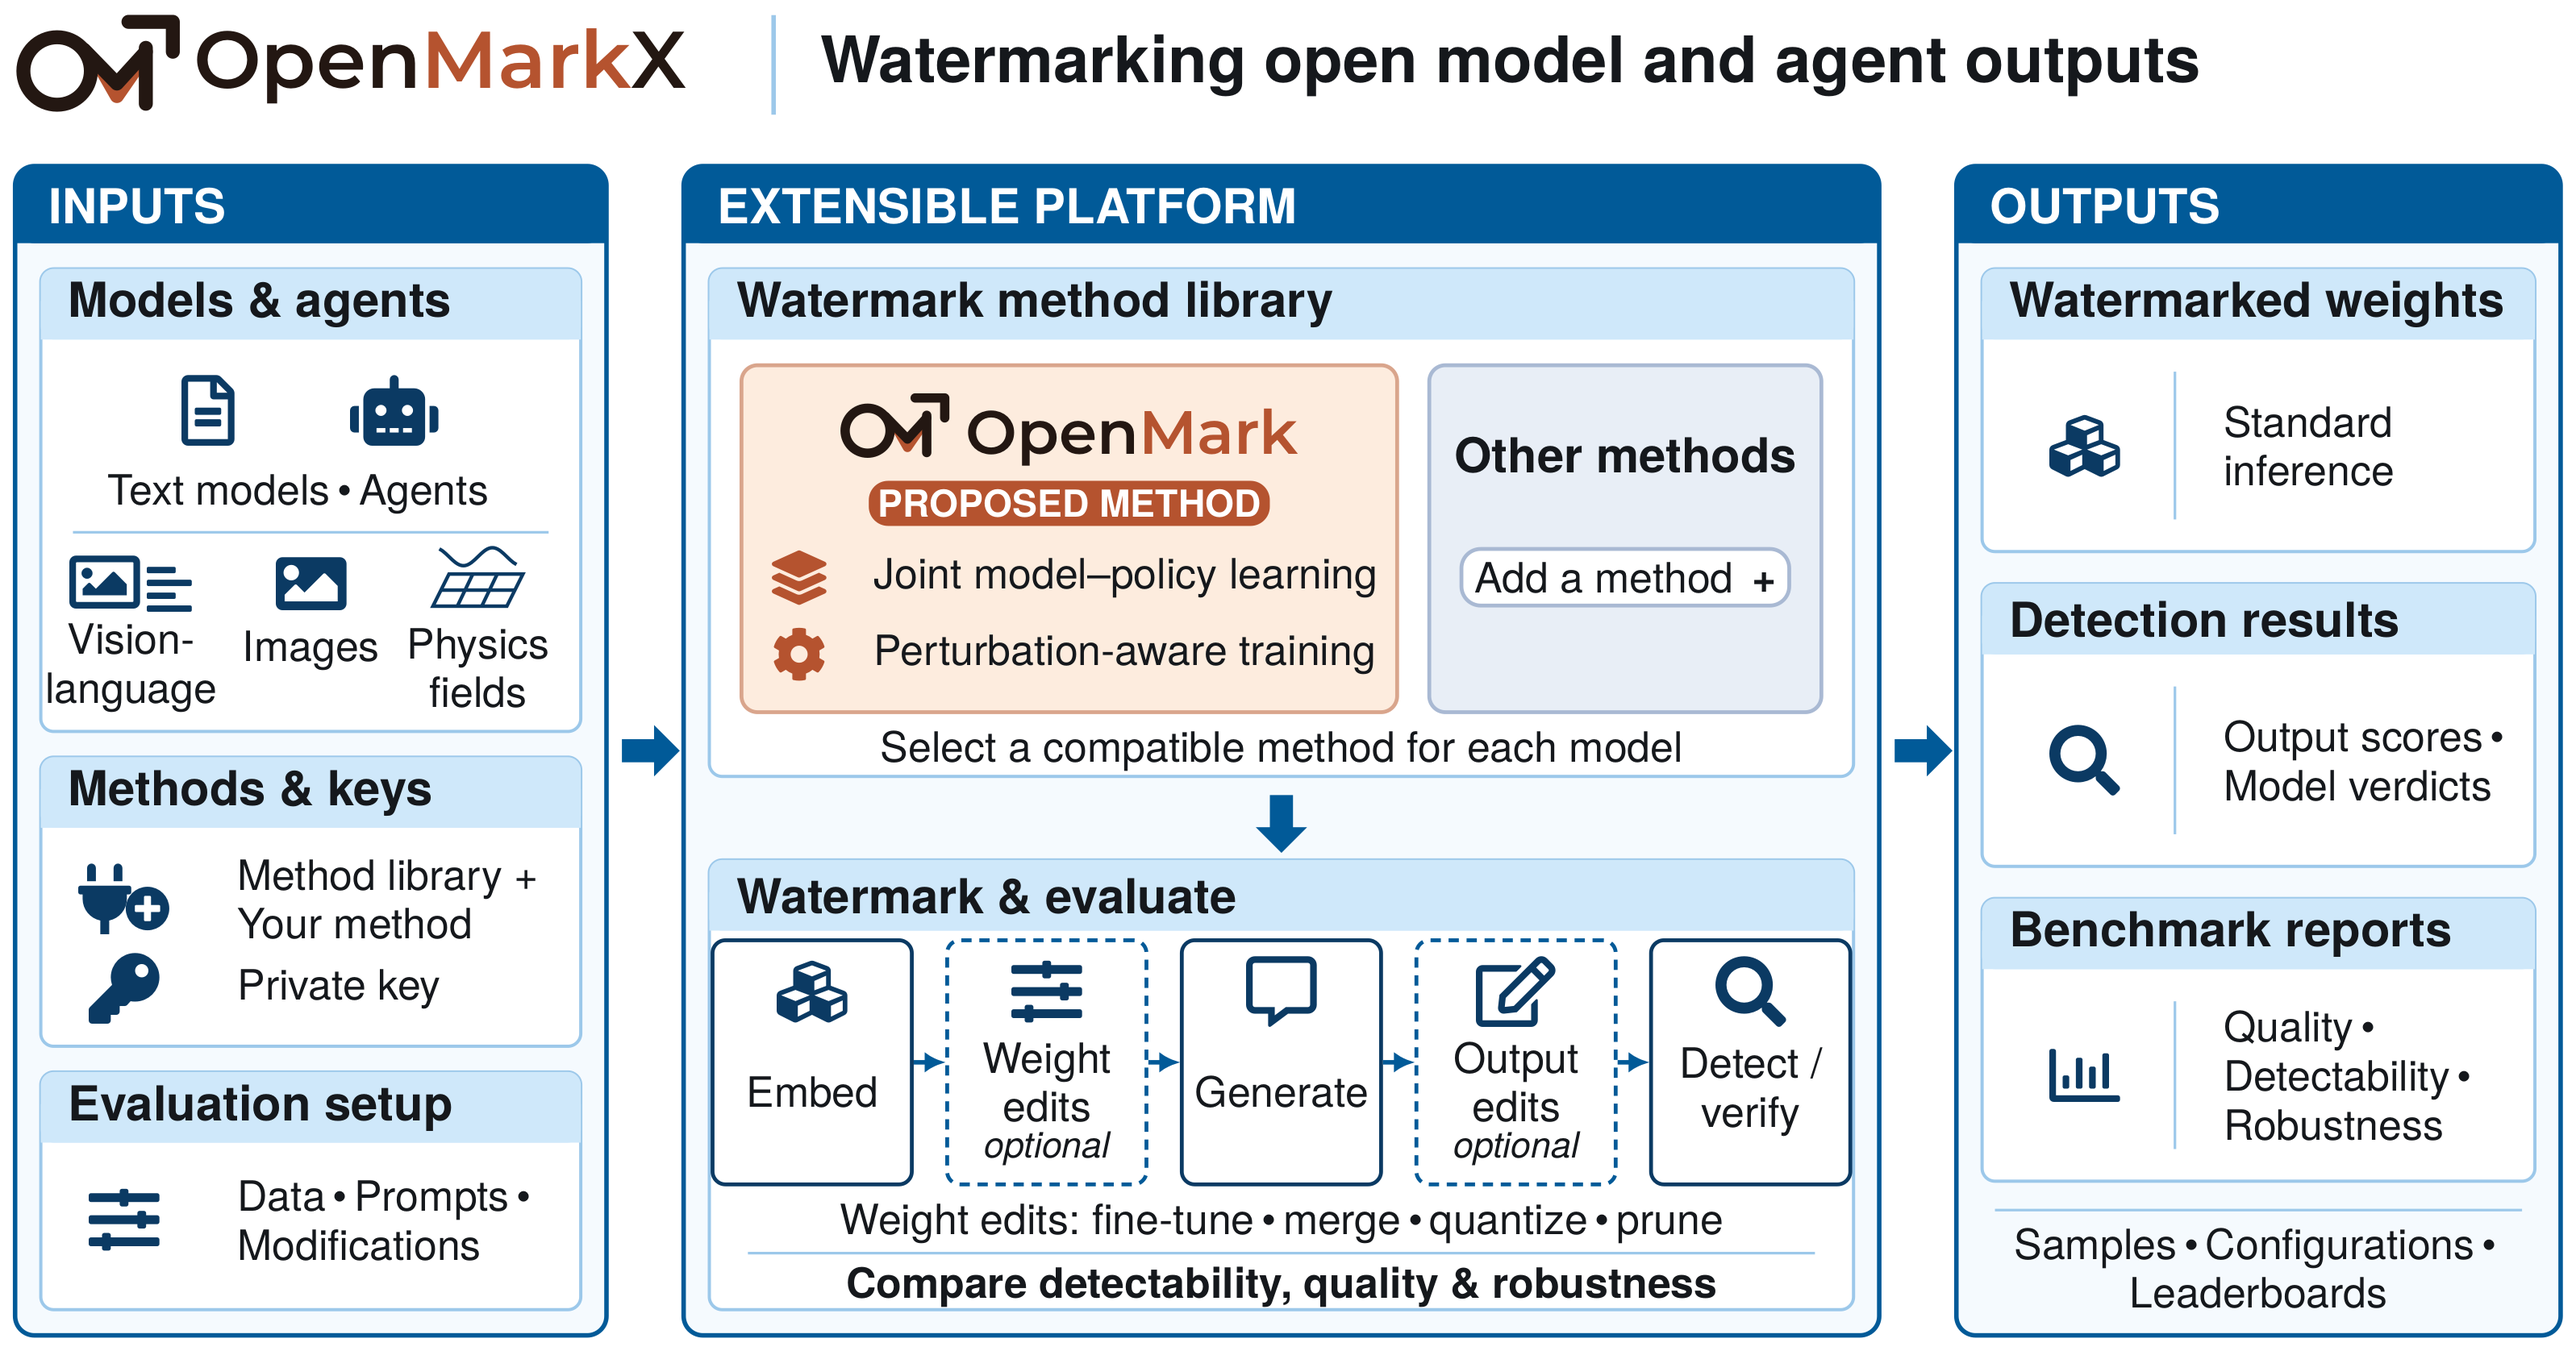
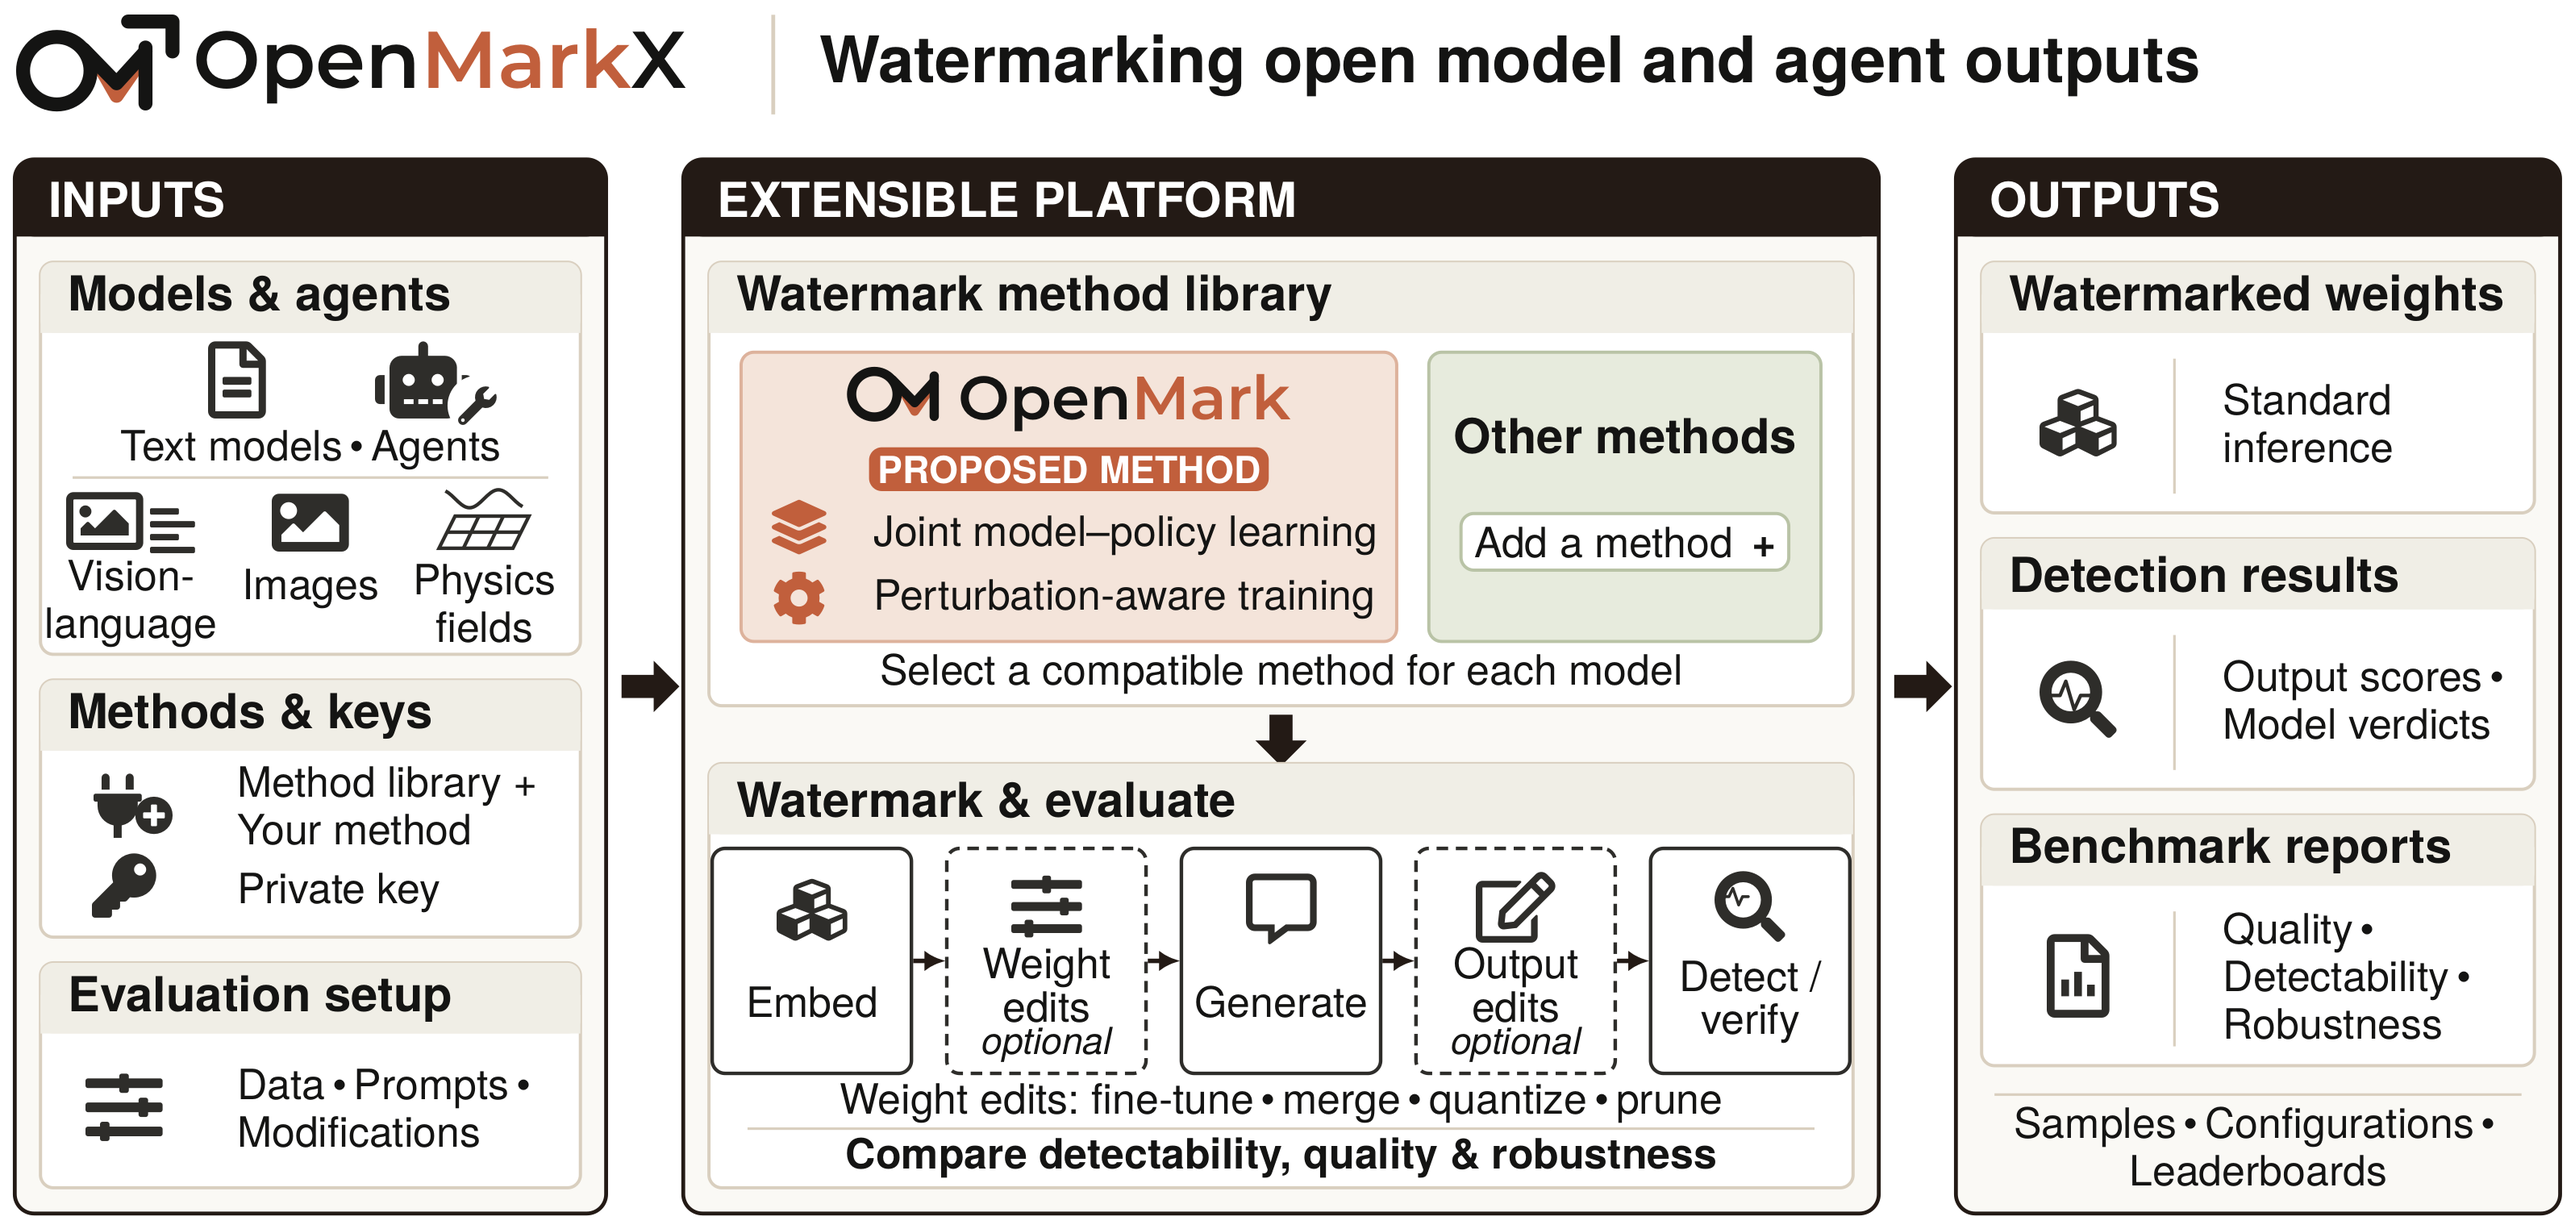
Homepage overview figure: the compact vector Figure 1 in the website palette (ink headers, terracotta OpenMark card, moss for other methods); TikZ source in docs/static/src
Claude-Session: https://claude.ai/code/session_01DYUCFeoKaufL7WfkpRAga8

diff --git a/docs/static/src/overview-platform-web.tex b/docs/static/src/overview-platform-web.tex
@@ -1,0 +1,149 @@
+\documentclass[border=2pt]{standalone}
+\usepackage[T1]{fontenc}
+\usepackage{tgheros}
+\renewcommand{\familydefault}{\sfdefault}
+\usepackage{tikz}
+\usetikzlibrary{arrows.meta,shapes.arrows}
+\usepackage{fontawesome5}
+\newcommand{\mont}{\fontfamily{Montserrat-TLF}\fontseries{sb}\selectfont}
+\IfFileExists{omlogo.tex}{\input{omlogo}}{\input{figures/src/omlogo}}
+\graphicspath{{../}{figures/}}
+% Palette sampled from the advisor's figure.
+\definecolor{hdr}{HTML}{231A15}      % column headers, arrows
+\definecolor{sub}{HTML}{F0EEE6}      % sub-section title strips
+\definecolor{body}{HTML}{FAF9F5}     % column ground
+\definecolor{line}{HTML}{D9CFBF}     % thin outlines
+\definecolor{icon}{HTML}{2E2D2A}     % icons
+\definecolor{omcard}{HTML}{F4E4DA}
+\definecolor{omedge}{HTML}{DDB29C}
+\definecolor{other}{HTML}{E7EBDD}
+\definecolor{otheredge}{HTML}{B9C3A6}
+\definecolor{txt}{HTML}{141413}
+\definecolor{omOrange}{HTML}{C15F3C}\definecolor{omInk}{HTML}{141413}
+% Sizes: title 10 pt, headings 7.5 pt bold, labels 6.5 pt.
+\newcommand{\T}{\fontsize{6.5}{7.4}\selectfont}
+\newcommand{\Hd}{\fontsize{7.5}{8.5}\selectfont\bfseries}
+\newcommand{\I}[1]{{\fontsize{12}{12}\selectfont\color{icon}#1}}
+\newcommand{\Ic}[1]{{\fontsize{11}{11}\selectfont\color{icon}\raisebox{\depth}{#1}}}
+\newcommand{\dotsep}{\,\textbullet\,}
+\frenchspacing
+\begin{document}
+\begin{tikzpicture}[x=1pt,y=1pt,font=\T,text=txt,
+  stage/.style={draw=icon,line width=0.55pt,rounded corners=2pt,fill=white,minimum width=31pt,minimum height=35pt},
+  opt/.style={stage,dash pattern=on 1.8pt off 1.2pt},
+  flow/.style={-{Latex[length=3.2pt,width=3.2pt]},line width=0.7pt,draw=hdr},
+  bigarrow/.style={single arrow,fill=hdr,minimum height=9pt,single arrow head extend=2.2pt,inner sep=1.6pt,anchor=center}]
+
+% ---------------- title row ----------------
+\node[anchor=west,inner sep=0] at (0,-9) {\OMmark{15}{omInk}{omOrange}};
+\node[anchor=west,inner sep=0] at (27.5,-9.4) {\OMword{12.5}{omInk}{omOrange}{X}};
+\draw[line,line width=0.6pt] (118,-1.5) -- (118,-17);
+\node[anchor=west,inner sep=0,font=\fontsize{10}{11}\selectfont\bfseries] at (125,-9.4) {Watermarking open model and agent outputs};
+
+% ---------------- column frames ----------------
+\def\top{-24} \def\bot{-188}
+\foreach \x/\w/\name in {0/92/INPUTS, 104/186/EXTENSIBLE PLATFORM, 302/94/OUTPUTS}{
+  \fill[body,rounded corners=3pt] (\x,\top) rectangle ++(\w,\bot-\top);
+  \draw[hdr,line width=0.6pt,rounded corners=3pt] (\x,\top) rectangle ++(\w,\bot-\top);
+  \fill[hdr,rounded corners=3pt] (\x,\top) rectangle ++(\w,-12);
+  \fill[hdr] (\x,\top-6) rectangle ++(\w,-6);
+  \node[anchor=west,text=white,font=\Hd,inner sep=0] at (\x+5,\top-6.2) {\name};
+}
+% sub-section: #1 x, #2 y top, #3 width, #4 height, #5 title
+\newcommand{\subsec}[5]{%
+  \fill[white,rounded corners=2pt] (#1,#2) rectangle ++(#3,-#4);
+  \draw[line,line width=0.5pt,rounded corners=2pt] (#1,#2) rectangle ++(#3,-#4);
+  \fill[sub,rounded corners=2pt] (#1,#2) rectangle ++(#3,-11);
+  \fill[sub] (#1,#2-5) rectangle ++(#3,-6);
+  \node[anchor=west,font=\Hd,inner sep=0] at (#1+4,#2-5.6) {#5};}
+
+% ---------------- INPUTS ----------------
+\subsec{4}{-40}{84}{61}{Models \& agents}
+\node at (34.6,-58.3) {\I{\faFile*[regular]}};
+\node at (63.5,-58.3) {\I{\faRobot}};
+\node[fill=white,inner sep=0.3pt,circle] at (72,-62.3) {{\fontsize{6}{6}\selectfont\color{icon}\faWrench}};
+\node at (46,-69.2) {Text models\dotsep Agents};
+\draw[line,line width=0.4pt] (9,-73.5) -- (83,-73.5);
+\node at (18,-80.5) {\I{\faImage[regular]}\,{\fontsize{8}{8}\selectfont\color{icon}\faAlignLeft}};
+\node at (46,-80.5) {\I{\faImage}};
+\begin{scope}[shift={(73,-81)},icon,line width=0.55pt]
+  \draw (-7,-3.5) -- (4.5,-3.5) -- (7,1.5) -- (-4.5,1.5) -- cycle;
+  \draw (-3.2,-3.5) -- (-0.8,1.5) (0.6,-3.5) -- (3,1.5) (-5.75,-1) -- (5.75,-1);
+  \draw[smooth] plot[domain=-6:6,samples=25] (\x,{4.2+1.4*sin(\x*40)});
+\end{scope}
+\node[align=center] at (18,-93) {Vision-\\language};
+\node at (46,-90.7) {Images};
+\node[align=center] at (73,-93) {Physics\\fields};
+
+\subsec{4}{-105}{84}{40}{Methods \& keys}
+\node[anchor=west,inner sep=0] at (12,-124.6) {{\fontsize{10}{10}\selectfont\color{icon}\faPlug}\hspace{-1pt}{\fontsize{6}{6}\selectfont\color{icon}\faPlusCircle}};
+\node[anchor=west,align=left] at (31,-124.5) {Method library +\\Your method};
+\node at (17,-137.0) {{\fontsize{10}{10}\selectfont\color{icon}\faKey}};
+\node[anchor=west] at (31,-138) {Private key};
+
+\subsec{4}{-149}{84}{35}{Evaluation setup}
+\node at (17,-171.5) {\I{\faSlidersH}};
+\node[anchor=west,align=left] at (31,-171.5) {Data\dotsep Prompts\dotsep\\Modifications};
+
+% ---------------- PLATFORM ----------------
+\subsec{108}{-40}{178}{69}{Watermark method library}
+% OpenMark card
+\fill[omcard,rounded corners=2pt] (113,-54) rectangle (215,-99);
+\draw[omedge,line width=0.5pt,rounded corners=2pt] (113,-54) rectangle (215,-99);
+\node[inner sep=0] at (164,-61.3) {\OMmethod{8.5}{omInk}{omOrange}\hspace{3pt}\raisebox{0.3pt}{\OMword{9.5}{omInk}{omOrange}{}}};
+\node[fill=omOrange,text=white,rounded corners=2pt,inner sep=1.3pt,font=\fontsize{5.8}{6}\selectfont\bfseries] at (164,-72.2) {PROPOSED METHOD};
+\node at (122,-81.2) {{\fontsize{8.5}{8.5}\selectfont\color{omOrange}\faLayerGroup}};
+\node[anchor=west] at (130,-82.5) {Joint model--policy learning};
+\node at (122,-92.3) {{\fontsize{8.5}{8.5}\selectfont\color{omOrange}\faCog}};
+\node[anchor=west] at (130,-92.3) {Perturbation-aware training};
+% Other methods card
+\fill[other,rounded corners=2pt] (220,-54) rectangle (281,-99);
+\draw[otheredge,line width=0.5pt,rounded corners=2pt] (220,-54) rectangle (281,-99);
+\node[font=\Hd] at (250.5,-67) {Other methods};
+\node[draw=otheredge,fill=white,rounded corners=2pt,inner sep=2pt,line width=0.5pt] at (250.5,-83.5) {Add a method \,\textbf{+}};
+\node at (197,-104) {Select a compatible method for each model};
+
+\node[bigarrow,shape border rotate=270,minimum height=8pt] at (197,-113.5) {};
+
+\subsec{108}{-118}{178}{66}{Watermark \& evaluate}
+\foreach \n/\x/\st in {s1/124/stage,s2/160.5/opt,s3/197/stage,s4/233.5/opt,s5/270/stage}{\node[\st] (\n) at (\x,-148.7) {};}
+\node[inner sep=0] at (124,-140.8) {\Ic{\faCubes}};
+\node[inner sep=0] at (160.5,-140.3) {\Ic{\faSlidersH}};
+\node[inner sep=0] at (197,-140.6) {\Ic{\faComment*[regular]}};
+\node[inner sep=0] at (233.5,-140.3) {\Ic{\faEdit[regular]}};
+\node[inner sep=0] at (270,-140.3) {\Ic{\faSearch}};
+\draw[icon,line width=0.45pt,line join=round,line cap=round] (265.9,-138.7) -- (266.7,-138.7) -- (267.3,-137.4) -- (268.2,-140.0) -- (268.8,-138.7) -- (269.7,-138.7);
+\node at (124,-155) {Embed};
+\node[align=center,font=\fontsize{6.5}{6.7}\selectfont] at (160.5,-152.4) {Weight\\edits};
+\node at (197,-155) {Generate};
+\node[align=center,font=\fontsize{6.5}{6.7}\selectfont] at (233.5,-152.4) {Output\\edits};
+\node[align=center,font=\fontsize{6.5}{6.7}\selectfont] at (270,-155) {Detect /\\verify};
+\foreach \x in {160.5,233.5}{\node[font=\fontsize{5.8}{6}\selectfont\itshape] at (\x,-161.6) {optional};}
+\foreach \a/\b in {s1/s2,s2/s3,s3/s4,s4/s5}{\draw[flow] (\a.east) -- (\b.west);}
+\node at (197,-170.8) {Weight edits: fine-tune\dotsep merge\dotsep quantize\dotsep prune};
+\draw[line,line width=0.4pt] (114,-174.8) -- (280,-174.8);
+\node[font=\fontsize{6.5}{7.4}\selectfont\bfseries] at (197,-179.3) {Compare detectability, quality \& robustness};
+
+% ---------------- OUTPUTS ----------------
+\foreach \y/\t/\l in {-40/Watermarked weights/Standard\\inference,
+                      -83/Detection results/Output scores\dotsep\\Model verdicts,
+                      -126/Benchmark reports/Quality\dotsep\\Detectability\dotsep\\Robustness}{
+  \subsec{306}{\y}{86}{39}{\t}
+  \draw[line,line width=0.4pt] (336,\y-15) -- (336,\y-36);
+  \node[anchor=west,align=left] at (340,\y-25) {\l};
+}
+\node at (321,-65) {\I{\faCubes}};
+\node at (321,-108) {\I{\faSearch}};
+\draw[icon,line width=0.55pt,line join=round] (316.4,-107.4) -- (318.2,-107.4) -- (319.1,-105.2) -- (320.4,-109.6) -- (321.4,-107.4) -- (323,-107.4);
+\begin{scope}[shift={(321,-151)}]
+  \node at (0,0) {{\fontsize{13}{13}\selectfont\color{icon}\faFile[regular]}};
+  \fill[icon] (-2.6,-3.2) rectangle (-1.4,-0.6) (-0.6,-3.2) rectangle (0.6,0.6) (1.4,-3.2) rectangle (2.6,-1.4);
+\end{scope}
+\draw[line,line width=0.4pt] (308,-169.5) -- (390,-169.5);
+\node[align=center] at (349,-177.5) {Samples\dotsep Configurations\dotsep\\Leaderboards};
+
+% ---------------- column arrows ----------------
+\node[bigarrow] at (98,-106) {};
+\node[bigarrow] at (296,-106) {};
+\end{tikzpicture}
+\end{document}

diff --git a/docs/static/src/omlogo.tex b/docs/static/src/omlogo.tex
@@ -1,0 +1,28 @@
+% OpenMarkX logo (advisor's design, redrawn as vector). Mark spans about 0..170 x 0..100 units.
+\definecolor{omInk}{HTML}{231712}
+\definecolor{omOrange}{HTML}{B5532F}
+% \OMmark{<height as number of pt>}{<ink colour>}{<accent colour>}
+\newcommand{\OMmark}[3]{%
+\begin{tikzpicture}[x=#1pt/100,y=#1pt/100,baseline=0pt]
+\pgfmathsetlengthmacro{\omlw}{#1pt*0.145}
+\begin{scope}[line width=\omlw,line cap=round,line join=round]
+\draw[#3] (88,44) -- (104,16) -- (122,42);
+\draw[#2] (42,42) circle (35);
+\draw[#2] (70,64) -- (104,29) -- (134,62);
+\draw[#2] (134,66) -- (134,8);
+\draw[#2] (116,93) -- (162,93) -- (162,62);
+\end{scope}
+\end{tikzpicture}}
+% \OMword{<font size>}{<ink>}{<accent>}{<suffix>}
+\newcommand{\OMword}[4]{{\mont\fontsize{#1}{#1}\selectfont\textcolor{#2}{Open}\textcolor{#3}{Mark}\textcolor{#2}{#4}}}
+% \OMmethod{<height as number of pt>}{<ink>}{<accent>}: the OpenMark method mark (no corner arrow).
+\newcommand{\OMmethod}[3]{%
+\begin{tikzpicture}[x=#1pt/84,y=#1pt/84,baseline=0pt]
+\pgfmathsetlengthmacro{\omlw}{#1pt*0.17}
+\begin{scope}[line width=\omlw,line cap=round,line join=round]
+\draw[#3] (88,44) -- (104,16) -- (122,42);
+\draw[#2] (42,42) circle (35);
+\draw[#2] (70,64) -- (104,29) -- (134,62);
+\draw[#2] (134,70) -- (134,8);
+\end{scope}
+\end{tikzpicture}}
